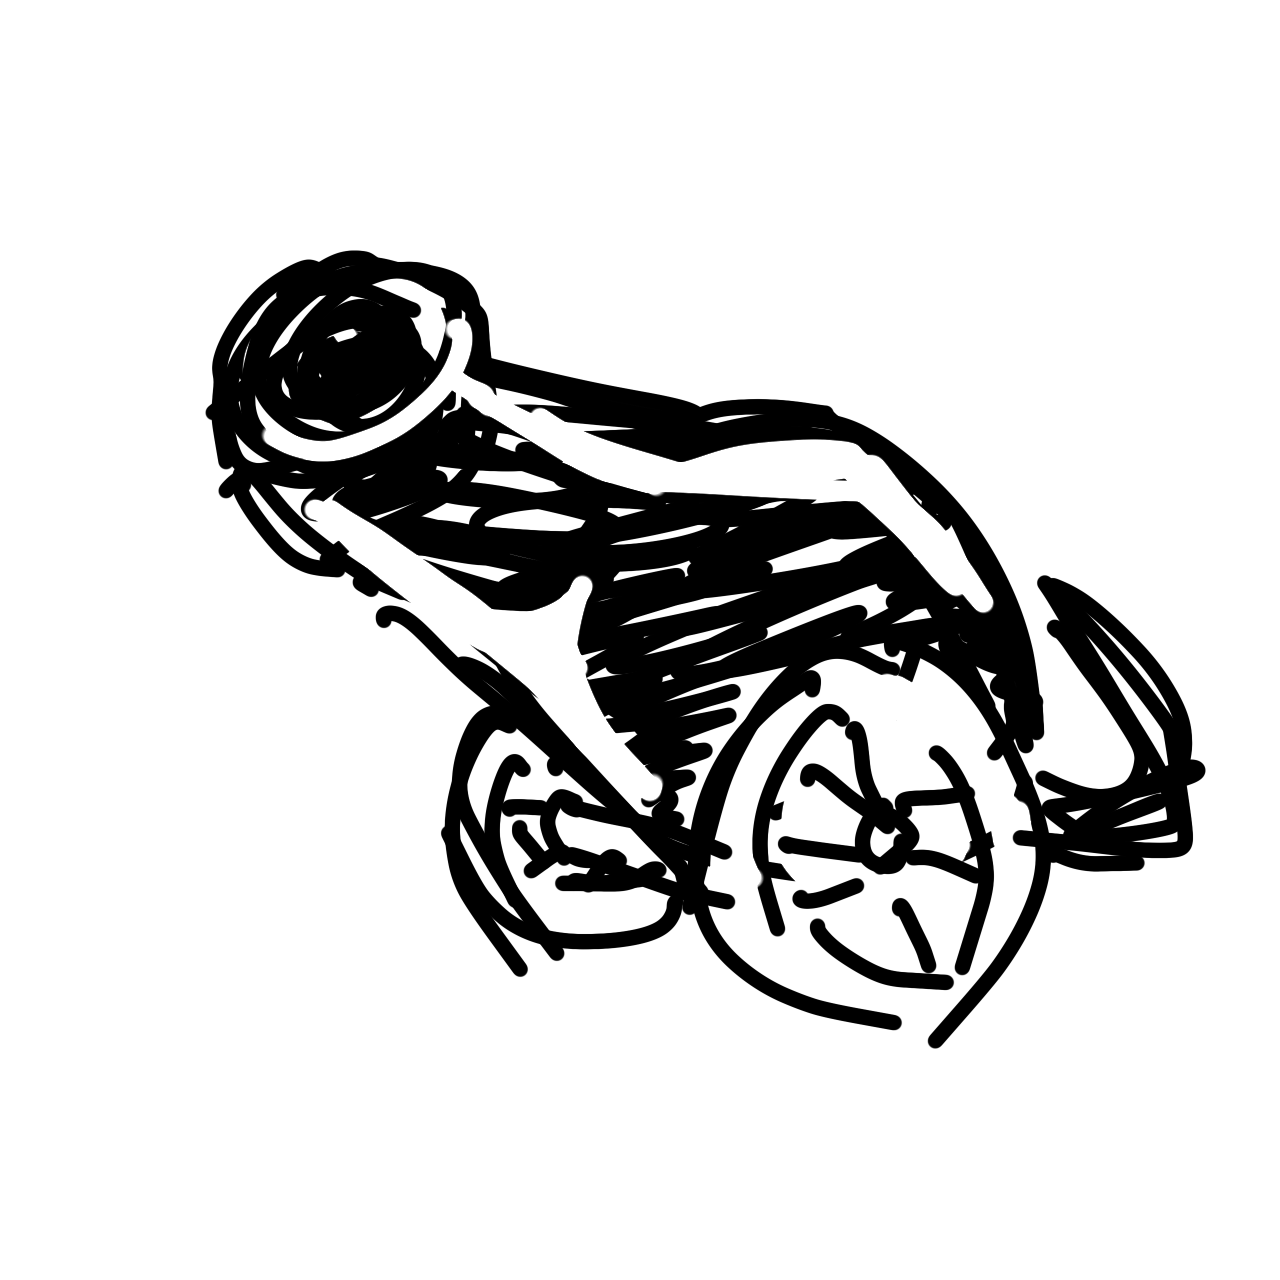
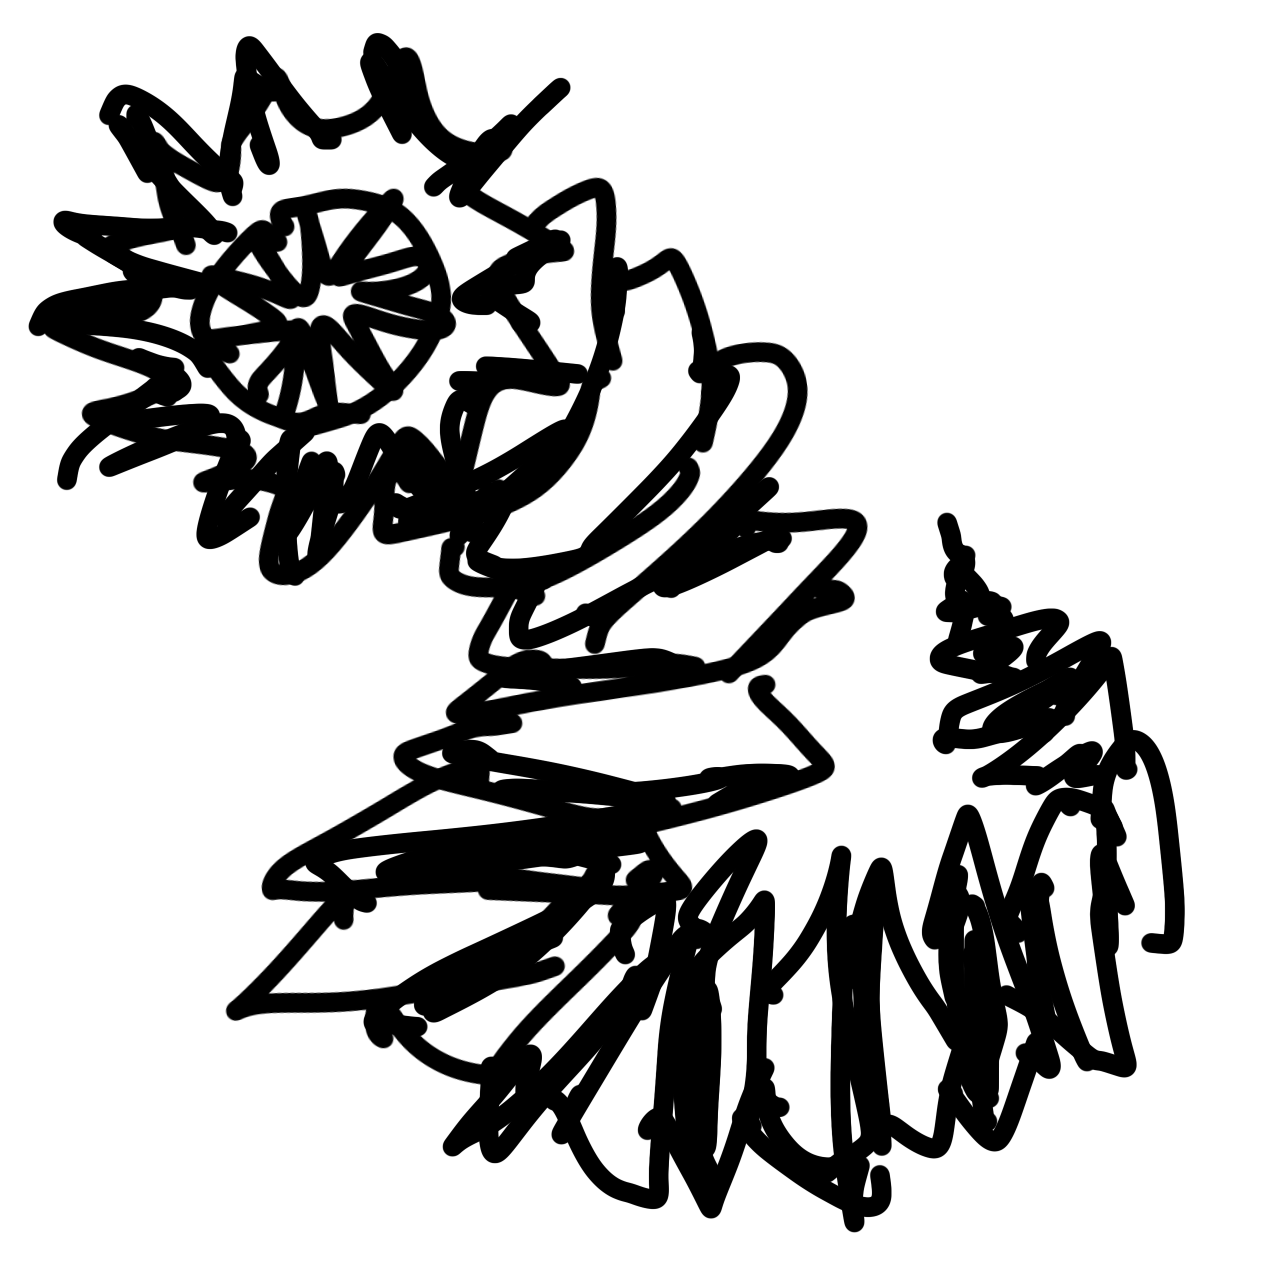
カードイラスト適用

Changed region(s): [[0.0, 0.0312, 0.9375, 0.9688]]

diff --git a/src/game/cards.ts b/src/game/cards.ts
@@ -296,7 +296,7 @@ export const CREATURE_CARDS = [
   },
   {
     definitionId: CARD_DEFINITION_IDS.ASH_DISMANTLER,
-    name: '攻城砲',
+    name: '巨大なワーム',
     kind: 'creature',
     color: 'red',
     cost: 4,
@@ -384,7 +384,7 @@ export const CREATURE_CARDS = [
   },
   {
     definitionId: CARD_DEFINITION_IDS.CANNON,
-    name: 'キャノン砲',
+    name: '攻城砲',
     kind: 'creature',
     color: 'red',
     cost: 2,

diff --git a/カード案.md b/カード案.md
@@ -79,7 +79,7 @@
 * **バーサーカー**：赤/コスト4/攻撃4/防御2/進軍2
   * ID: `0f977549-313e-4012-8912-e562d1eda3c7`
   * 一騎当千(+2/+1)
-* **攻城砲**：赤/コスト4/攻撃5/防御1/進軍2
+* **巨大なワーム**：赤/コスト4/攻撃5/防御1/進軍2
   * ID: `115cdda8-9b82-4335-8300-4fdc771b150a`
   * 撤去
 * **クラーケン**：青/コスト4/攻撃4/防御4/進軍2
@@ -155,6 +155,6 @@ nはクリーチャーのコストに等しい。
 相手クリーチャー1体を選択する。
 そのクリーチャーのコスト+1を支払う。
 支払えた場合、そのクリーチャーのコントロールを得る。
-* **キャノン砲**：赤/コスト2/攻撃0/防御2/進軍1
+* **攻城砲**：赤/コスト2/攻撃0/防御2/進軍1
   * ID: `80c448c1-5eef-42f6-9797-4f083e1fb6b6`
   * 砲撃6

diff --git a/テーマデッキ.md b/テーマデッキ.md
@@ -31,7 +31,7 @@
 
 - 2枚　**投石機**
 - 2枚　**バーサーカー**
-- 1枚　**攻城砲**
+- 1枚　**巨大なワーム**
 
 #### コスト5：2枚
 
@@ -180,7 +180,7 @@
 #### コスト4：3枚
 
 - 2枚　**投石機**
-- 1枚　**攻城砲**
+- 1枚　**巨大なワーム**
 
 #### コスト5：2枚
 
@@ -244,7 +244,7 @@
 
 - 4枚　**投石機**
 - 4枚　**バーサーカー**
-- 4枚　**攻城砲**
+- 4枚　**巨大なワーム**
 
 ### コスト5：3枚
 
